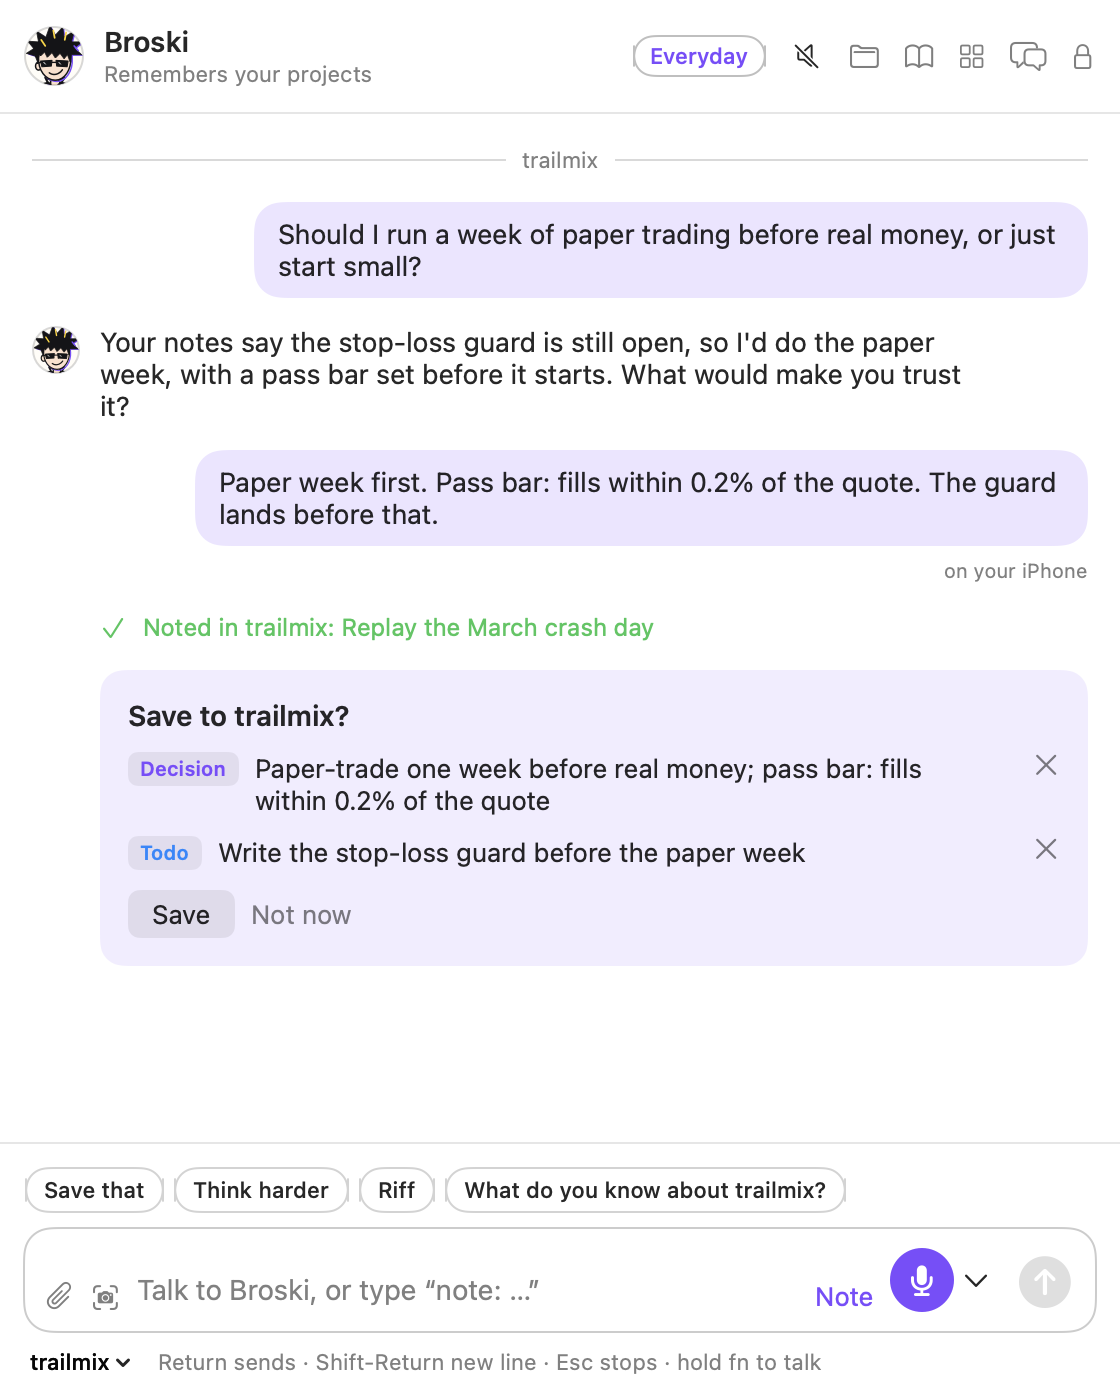
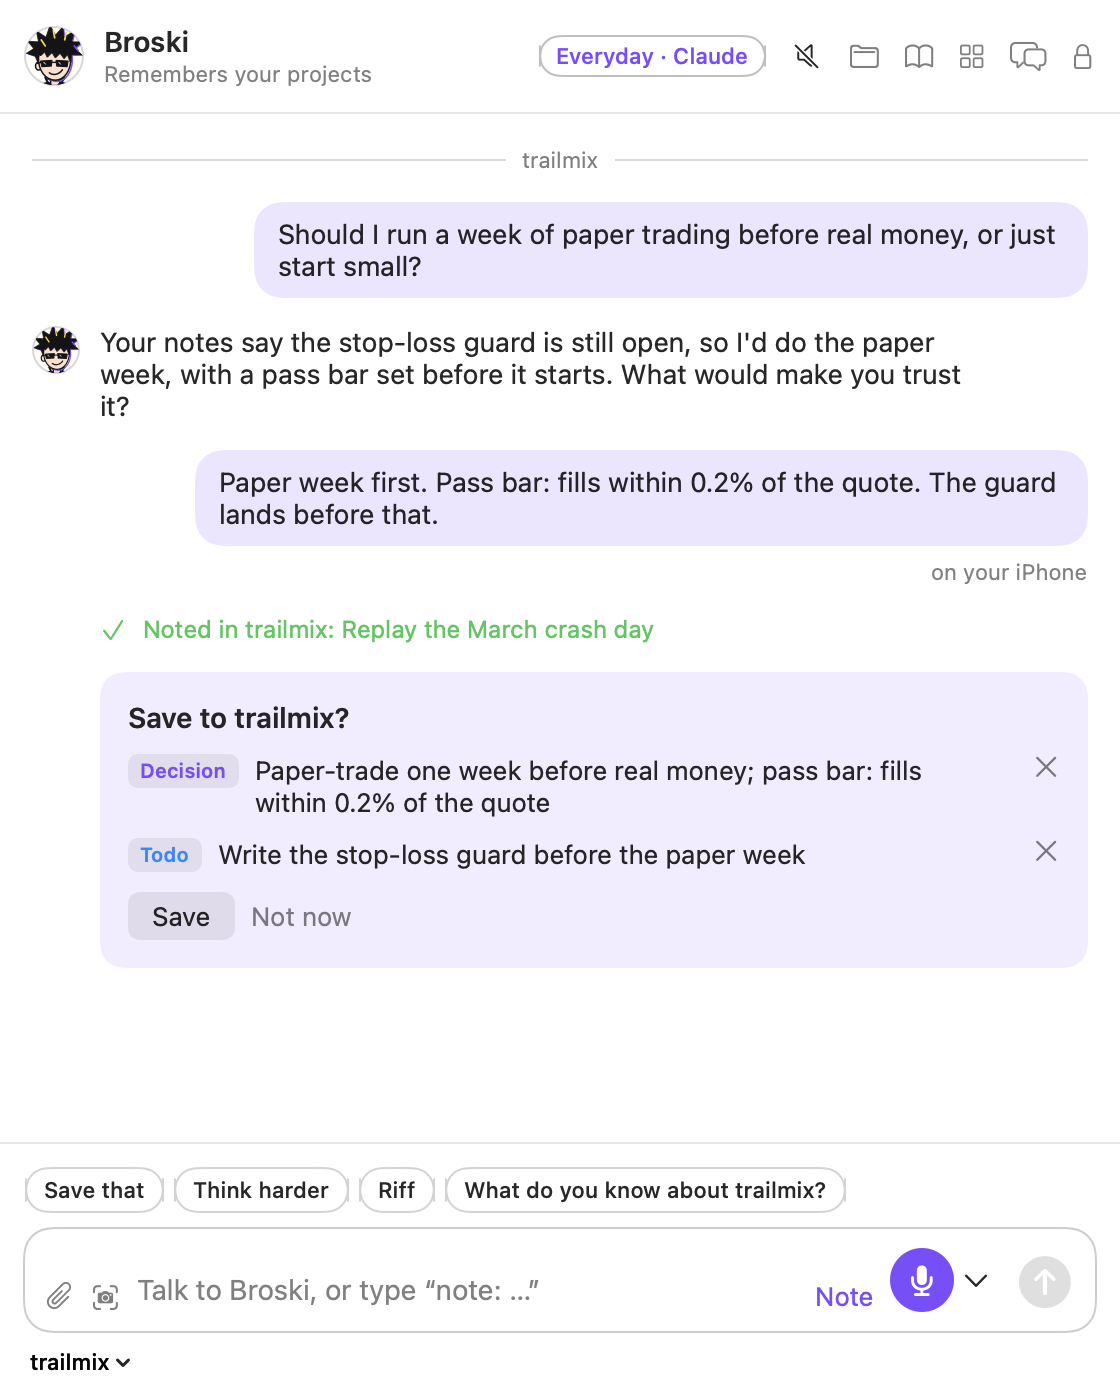
Name the provider everywhere, tidier first run, facts kept once (Mac 0.11.3, iPhone 0.7.2)
- The conversation's header shows the role and its provider ("Everyday · OpenAI"), or "No model" in orange, and
  opens Settings › Models; the note panel names the filing provider instead of "+ Claude".
- First run: the choose-a-model card follows Broski's hello on a standard card; the welcome no longer claims
  nothing leaves the Mac and no longer uses a sample project name; one button on the voice step.
- Header icons get accessibility labels; keyboard hints only at the start; one Wrap up in a riff; "Riff on this"
  in Ask and Help with this, with a reason when it's off; Memory's picker centred and "In your words" heading;
  the duplicate read-aloud toggle and the Claude-only "paste into Claude Code" line are gone.
- Memory.remembered keeps each fact once, case-insensitively, across devices; remember skips a known fact.
- ci.sh skips the one-build-at-a-time check on GitHub runners (it stopped the v0.11.2 release early).
- Website screenshots refreshed; the changelog introduces the first public release under 0.11.3.

diff --git a/Sources/Broski/Companion/HomeView.swift b/Sources/Broski/Companion/HomeView.swift
@@ -118,7 +118,12 @@ final class HomeModel: ObservableObject {
         if let thread { topic = thread }
     }
 
-    var modelLabel: String { riffing ? "Riff" : deep ? "Deep" : "Everyday" }
+    /// "Everyday · OpenAI": what's replying, and on which provider; "No model" until one is chosen.
+    var modelLabel: String {
+        if needsModel { return "No model" }
+        let name = (config().models ?? .defaults).providerName(for: riffing || deep ? .deep : .everyday)
+        return (riffing ? "Riff" : deep ? "Deep" : "Everyday") + (name.map { " · \($0)" } ?? "")
+    }
 
     /// Riff mode is on: from its start marker in the conversation until it's wrapped up, so it survives a restart.
     var riffing: Bool { RiffMode.active(turns: isPrivate ? privateTurns : turns) }
@@ -765,23 +770,31 @@ struct HomeView: View {
                     .font(.system(size: 11)).foregroundStyle(model.isPrivate ? Self.privateText : .secondary)
             }
             Spacer()
-            Text(model.modelLabel)
-                .font(.system(size: 11, weight: .medium))
-                .padding(.horizontal, 8).padding(.vertical, 3)
-                .overlay(Capsule().stroke(Color.secondary.opacity(0.5)))
-                .padding(1)
-                .foregroundStyle(Brand.purple)
-                .help(model.riffing ? "Riffing: brainstorming on the deep model, by the rules"
-                      : model.deep ? "Replies come from the deep model" : "Replies come from the everyday model")
+            Button {
+                ModelsSettings.openChooserNext = model.needsModel
+                model.openSettings(.models)
+            } label: {
+                Text(model.modelLabel)
+                    .font(.system(size: 11, weight: .medium))
+                    .padding(.horizontal, 8).padding(.vertical, 3)
+                    .overlay(Capsule().stroke(Color.secondary.opacity(0.5)))
+                    .padding(1)
+                    .foregroundStyle(model.needsModel ? Color.orange : Brand.purple)
+            }
+            .buttonStyle(.plain)
+            .help(model.needsModel ? "Choose a model to talk to"
+                  : model.riffing ? "Riffing: brainstorming on the deep model, by the rules. Click to change models."
+                  : model.deep ? "Replies come from the deep model. Click to change models." : "Replies come from the everyday model. Click to change models.")
             voiceMenu
             if model.project != nil {
                 Button { model.openProjectFolder() } label: { Image(systemName: "folder") }
                     .buttonStyle(.borderless).help("Open the project's folder: resources, setup drafts, tracker")
+                    .accessibilityLabel("Open the project's folder")
             }
             Button(action: openMemory) { Image(systemName: "book") }
-                .buttonStyle(.borderless).help("What Broski knows")
+                .buttonStyle(.borderless).help("What Broski knows").accessibilityLabel("What Broski knows")
             Button(action: openDashboard) { Image(systemName: "square.grid.2x2") }
-                .buttonStyle(.borderless).help("Open the dashboard")
+                .buttonStyle(.borderless).help("Open the dashboard").accessibilityLabel("Open the dashboard")
             Button { model.toggleRiff() } label: {
                 Image(systemName: model.riffing ? "bubble.left.and.bubble.right.fill" : "bubble.left.and.bubble.right")
                     .foregroundStyle(model.riffing ? Brand.purple : .secondary)
@@ -790,11 +803,13 @@ struct HomeView: View {
             .disabled(model.thinking)
             .help(model.riffing ? "Wrap up the riff: what came of it, as one card to save"
                   : "Riff: brainstorm by the rules (yours too). Or say “let's riff about …”")
+            .accessibilityLabel(model.riffing ? "Wrap up the riff" : "Start a riff")
             Button { model.togglePrivate() } label: {
                 Image(systemName: model.isPrivate ? "lock.fill" : "lock").foregroundStyle(model.isPrivate ? Self.privateText : .secondary)
             }
             .buttonStyle(.borderless)
             .help(model.isPrivate ? "Leave private mode" : "Go private: Broski starts blank and keeps nothing")
+            .accessibilityLabel(model.isPrivate ? "Leave private mode" : "Go private")
         }
         .padding(12)
     }
@@ -925,7 +940,6 @@ struct HomeView: View {
             ScrollView {
                 // Not lazy: rows of text measured as they scroll into view make the scroll bar and position jump.
                 VStack(alignment: .leading, spacing: 14) {
-                    if model.needsModel && !model.isPrivate { modelSetup }
                     if model.visibleTurns.isEmpty {
                         Text(model.isPrivate
                              ? "A blank slate. Nothing you say here is kept unless you choose to keep it."
@@ -936,6 +950,7 @@ struct HomeView: View {
                     ForEach(model.visibleTurns) { turn in
                         row(turn).id(turn.id)
                     }
+                    if model.needsModel && !model.isPrivate { modelSetup }
                     if model.thinking {
                         HStack(spacing: 6) {
                             ProgressView().controlSize(.small)
@@ -1025,7 +1040,7 @@ struct HomeView: View {
     /// No model yet: choose one (a cloud model with your key, or one on this Mac), or Apple's in one tap.
     private var modelSetup: some View {
         VStack(alignment: .leading, spacing: 10) {
-            Text("CHOOSE A MODEL TO TALK TO").font(.system(size: 10, weight: .semibold)).foregroundStyle(Brand.purple)
+            Text("Choose a model to talk to").font(.system(size: 13, weight: .semibold))
             Text("Broski needs a model to reply: a cloud one with your own key (Claude, OpenAI, Gemini and others), or one that runs on this Mac and keeps everything here.")
                 .font(.system(size: 13))
                 .fixedSize(horizontal: false, vertical: true)
@@ -1042,7 +1057,7 @@ struct HomeView: View {
             .controlSize(.small)
         }
         .padding(14)
-        .background(RoundedRectangle(cornerRadius: 12).stroke(Brand.purple.opacity(0.35)))
+        .background(RoundedRectangle(cornerRadius: 12, style: .continuous).fill(Color.primary.opacity(0.04)))
     }
 
     @ViewBuilder private func row(_ turn: Turn) -> some View {
@@ -1076,7 +1091,7 @@ struct HomeView: View {
                         .fixedSize(horizontal: false, vertical: true)
                 }
                 if turn.device != "mac" {
-                    Text("on your iPhone").font(.system(size: 10)).foregroundStyle(.secondary)
+                    Text("on your iPhone").font(.system(size: 11)).foregroundStyle(.secondary)
                 }
                 if let files = turn.files, !files.isEmpty {
                     HStack(spacing: 6) {
@@ -1198,7 +1213,6 @@ struct HomeView: View {
                         chip(move.name) { model.send(move.ask) }
                         .help(move.ask)
                     }
-                    chip("Wrap up") { model.endRiff() }
                 } else {
                 chip("Save that") { model.suggestSave(force: true) }
                 chip(model.deep ? "Back to everyday" : "Think harder") { model.deep.toggle() }
@@ -1304,9 +1318,11 @@ struct HomeView: View {
                     .menuStyle(.borderlessButton).fixedSize()
                     .help("Show one thread of the conversation")
                 }
-                Text("Return sends · Shift-Return new line · Esc stops · hold fn to talk")
-                    .font(.system(size: 11)).foregroundStyle(.secondary).lineLimit(1)
-                    .help("“note: …” saves without a reply · Up brings back your last message · paste or drop files and images")
+                if model.visibleTurns.count < 4 {
+                    Text("Return sends · Shift-Return new line · Esc stops · hold fn to talk")
+                        .font(.system(size: 11)).foregroundStyle(.secondary).lineLimit(1)
+                        .help("“note: …” saves without a reply · Up brings back your last message · paste or drop files and images")
+                }
             }
         }
         .padding(12)

diff --git a/Sources/Broski/OnboardingView.swift b/Sources/Broski/OnboardingView.swift
@@ -55,10 +55,8 @@ struct OnboardingView: View {
                 if step > 0 && step < lastStep {
                     Button("Back") { step -= 1 }
                 }
-                if step == 2 && !Permissions.voiceGranted {
-                    Button("Skip, I'll type") { next() }
-                }
-                Button(step == lastStep ? "Start using Broski" : "Continue", action: next)
+                Button(step == 2 && !Permissions.voiceGranted ? "Skip, I'll type" : step == lastStep ? "Start using Broski" : "Continue",
+                       action: next)
                     .keyboardShortcut(.defaultAction)
                     .controlSize(.large)
             }
@@ -88,18 +86,16 @@ struct OnboardingView: View {
             Image(nsImage: BroskiArt.avatar(diameter: 104, crowned: true))
             Text("Hey, I'm Broski.")
                 .font(.system(size: 32, weight: .bold))
-            Text("Ideas show up at random. Tell me the moment you have one, by voice or by typing, and I'll file it into the right project before it evaporates.")
+            Text("Talk to me about your projects, by voice or by typing. I remember what you've told me, think things through with you, and keep your decisions and todos when you say so.")
                 .font(.system(size: 15))
                 .foregroundStyle(.secondary)
                 .fixedSize(horizontal: false, vertical: true)
             VStack(alignment: .leading, spacing: 12) {
-                Feature(symbol: "keyboard", text: "Press \(app.shortcutLabel) anywhere, or click Broski in the menu bar")
-                Feature(symbol: "waveform", text: "Say “in the strado project, add a todo: …”, or just type it")
-                Feature(symbol: "camera.viewfinder", text: "Press \(app.screenshotLabel) to grab a screenshot and talk over it")
-                Feature(symbol: "record.circle", text: "“Start a QA session for strado”, test, then “wrap up” for a full report")
-                Feature(symbol: "text.quote", text: "Highlight text anywhere and press ⌥⇧C to clip it, with its source")
-                Feature(symbol: "square.stack", text: "See, tick off, and move every note in the dashboard")
-                Feature(symbol: "lock", text: "Notes are plain markdown on your Mac. Nothing is uploaded.")
+                Feature(symbol: "keyboard", text: "Press \(app.shortcutLabel) anywhere, or click Broski in the menu bar, and talk or type")
+                Feature(symbol: "checkmark.circle", text: "Decisions, todos and bugs are saved only when you tap Save")
+                Feature(symbol: "camera.viewfinder", text: "Press \(app.screenshotLabel) to grab a screenshot and talk over it; \(app.clipLabel) clips highlighted text")
+                Feature(symbol: "square.stack", text: "Every project, its notes and its living page in the dashboard")
+                Feature(symbol: "lock", text: "Your notes are plain files in your Broski folder. Replies come from the AI you choose.")
             }
             .padding(.top, 6)
         }

diff --git a/Sources/BroskiCore/Gateway.swift b/Sources/BroskiCore/Gateway.swift
@@ -198,11 +198,13 @@ public enum Memory {
     /// What's still remembered from conversations, oldest first.
     public static func remembered(root: URL) -> [String] {
         var facts: [String] = []
+        // Once each, whatever the case: two devices can remember the same thing, each in its own file.
+        func same(_ a: String, _ b: String) -> Bool { a.caseInsensitiveCompare(b) == .orderedSame }
         for event in events(root: root) {
             if event.op == "remember" {
-                facts.append(event.text)
+                if !facts.contains(where: { same($0, event.text) }) { facts.append(event.text) }
             } else if event.op == "forget" {
-                facts.removeAll { $0 == event.text }
+                facts.removeAll { same($0, event.text) }
             }
         }
         return facts
@@ -214,7 +216,7 @@ public enum Memory {
 
     public static func remember(_ fact: String, root: URL, device: String, at: Date = Date(), by: String? = nil, why: String? = nil) throws {
         let text = fact.trimmingCharacters(in: .whitespacesAndNewlines)
-        guard !text.isEmpty else { return }
+        guard !text.isEmpty, !remembered(root: root).contains(where: { $0.caseInsensitiveCompare(text) == .orderedSame }) else { return }
         try append(Event(at: at, device: device, op: "remember", text: text, by: by, why: why), root: root)
     }
 

diff --git a/Sources/Broski/PanelView.swift b/Sources/Broski/PanelView.swift
@@ -28,6 +28,8 @@ final class PanelModel: ObservableObject {
     @Published var proposal: Interpretation?
     @Published var thinkingProposal = false
     @Published var aiEnabled = false
+    /// The provider that files notes, named in the panel.
+    @Published var aiName: String?
     @Published var whisperState: Transcription.State = .missing
     /// Which local engine writes the text ("Bark" or "Whisper").
     @Published var voiceEngine = "Whisper"
@@ -500,7 +502,7 @@ struct PanelView: View {
             Text("Preparing the voice model…").font(.system(size: 11)).foregroundStyle(.secondary)
                 .help("Compiling it for this Mac, once. Apple's dictation writes the text meanwhile.")
         case .ready:
-            Label(model.aiEnabled ? "\(model.voiceEngine) + Claude" : model.voiceEngine, systemImage: model.aiEnabled ? "sparkles" : "waveform")
+            Label(model.aiEnabled ? "\(model.voiceEngine) + \(model.aiName ?? "your model")" : model.voiceEngine, systemImage: model.aiEnabled ? "sparkles" : "waveform")
                 .font(.system(size: 10, weight: .medium))
                 .foregroundStyle(.secondary)
                 .help(model.aiEnabled ? "Local \(model.voiceEngine) writes the text; your model files it" : "Choose a model in Settings › Models to tidy and file notes automatically")

diff --git a/Tests/BroskiCoreTests/GatewayAndMemoryTests.swift b/Tests/BroskiCoreTests/GatewayAndMemoryTests.swift
@@ -52,6 +52,20 @@ struct GatewayAndMemoryTests {
         #expect(fake.sent.isEmpty && UsageLog.entries(root: root).isEmpty)
     }
 
+    @Test("a fact already remembered is kept once, even when two devices remember it")
+    func rememberedOnce() throws {
+        let root = try scratch()
+        defer { try? FileManager.default.removeItem(at: root) }
+        try Memory.remember("Prefers short answers", root: root, device: "mac")
+        try Memory.remember("prefers short answers ", root: root, device: "mac")
+        // Each device writes only its own file, so the iPhone can't see the Mac's copy before it writes.
+        try Memory.remember("Prefers short answers", root: root, device: "iphone")
+        try Memory.remember("Works late on Fridays", root: root, device: "iphone")
+        #expect(Memory.remembered(root: root) == ["Prefers short answers", "Works late on Fridays"])
+        #expect(try Memory.forget("short answers", root: root, device: "mac"))
+        #expect(Memory.remembered(root: root) == ["Works late on Fridays"])
+    }
+
     @Test("a PDF goes as text to a model that can't read PDFs")
     func pdfAsText() async throws {
         let root = try scratch()

diff --git a/Sources/Broski/Companion/AskView.swift b/Sources/Broski/Companion/AskView.swift
@@ -158,12 +158,13 @@ struct AskView: View {
                         Spacer()
                         if let saved = model.saved { Text(saved).font(.system(size: 11)).foregroundStyle(.green) }
                         Button("Save as note") { model.saveAsNote() }
-                        Button("Keep thinking") {
+                        Button("Riff on this") {
                             model.onRiff(model.answer?.sources.first?.project, "Q: \(model.question)\n\nBroski: \(answer.markdown)")
                         }
                         // An answer without AI is a listing, kept on the Mac (a local-only project, no key).
                         .disabled(!model.library.brain.hasModel || !answer.usedAI)
-                        .help("Continue as a riff")
+                        .help(model.library.brain.hasModel ? (answer.usedAI ? "Keep thinking about this in a riff" : "This answer stayed on this Mac, so it can't go to a riff")
+                              : "Choose a model in Settings › Models to riff")
                     }
                     .buttonStyle(.borderless)
                     .font(.system(size: 12, weight: .medium))

diff --git a/Sources/Broski/Companion/MemoryView.swift b/Sources/Broski/Companion/MemoryView.swift
@@ -115,7 +115,8 @@ struct MemoryView: View {
             }
             .pickerStyle(.segmented)
             .labelsHidden()
-            .frame(width: 340)
+            .fixedSize()
+            .frame(maxWidth: .infinity)
             .padding(14)
             Divider()
             ScrollView {
@@ -140,7 +141,8 @@ struct MemoryView: View {
         Text("Broski reads this at the start of every conversation (never in private mode).")
             .font(.system(size: 12)).foregroundStyle(.secondary)
         HStack {
-            Text("ABOUT-YOU.MD").font(.system(size: 10, weight: .semibold)).foregroundStyle(.secondary)
+            Text("IN YOUR WORDS").font(.system(size: 10, weight: .semibold)).foregroundStyle(.secondary)
+                .help("memory/about-you.md in your Broski folder: yours to edit")
             Spacer()
             Button(model.aboutFile.isEmpty ? "Write it" : "Edit") { model.editAboutYou() }.controlSize(.small)
         }

diff --git a/Tests/BroskiCoreTests/ProvidersTests.swift b/Tests/BroskiCoreTests/ProvidersTests.swift
@@ -119,6 +119,14 @@ struct ProvidersTests {
         #expect(settings.providerID(for: .custom) != "custom")
     }
 
+    @Test("the screens name the provider a role runs on, never an assumed one")
+    func roleProviderName() {
+        #expect(ModelSettings.defaults.providerName(for: .fast) == "Claude")
+        let openAI = ProviderPreset.openAI.apply(to: .defaults, providerID: "openai", available: [])
+        #expect(openAI.providerName(for: .everyday) == "OpenAI")
+        #expect(ModelSettings(providers: [], roles: [:]).providerName(for: .deep) == nil)
+    }
+
     @Test("a server added by hand keeps its name, and takes local-only work when it runs on this Mac")
     func customServer() {
         var provider = ProviderPreset.custom.provider(id: "custom", baseURL: "http://127.0.0.1:8080/v1")

diff --git a/Sources/BroskiCore/Providers.swift b/Sources/BroskiCore/Providers.swift
@@ -155,6 +155,11 @@ public struct ProviderPreset: Equatable, Identifiable, Sendable {
 }
 
 extension ModelSettings {
+    /// The name of the provider `role` runs on ("OpenAI", "Ollama"), for labels; nil when no model is chosen.
+    public func providerName(for role: ModelRole) -> String? {
+        roles[role].flatMap { provider($0.provider) }?.displayName
+    }
+
     /// The id to connect `preset` under: the provider already made from it (connecting again updates it), else the
     /// preset's own id, else a new one. Every server added by hand gets its own.
     public func providerID(for preset: ProviderPreset) -> String {

diff --git a/Sources/Broski/Companion/Companion.swift b/Sources/Broski/Companion/Companion.swift
@@ -513,7 +513,7 @@ struct HelpCard: View {
                     if let saved = help.saved { Text(saved).foregroundStyle(.green) }
                     Spacer()
                     Button("Copy") { Exporter.copy(text) }
-                    Button("Ask a follow-up") {
+                    Button("Riff on this") {
                         companion.onRiff(help.project, "I asked for help with what's on my screen (\(help.context.summary)). You said:\n\n\(text)")
                         companion.close()
                     }

diff --git a/Sources/Broski/Dashboard/Overview.swift b/Sources/Broski/Dashboard/Overview.swift
@@ -255,7 +255,7 @@ struct ActionCard: View {
             result = "Raised to high"
         case .claudePrompt:
             Exporter.copy(action.detail.isEmpty ? action.title : action.detail)
-            result = "Copied. Paste it into Claude Code."
+            result = "Copied. Paste it into your coding agent (Claude Code, Codex, Cursor)."
             return
         case .decide:
             BroskiUI.app?.showRiff(project: project, opening: action.title + (action.detail.isEmpty ? "" : "\n\n" + action.detail))

diff --git a/Sources/Broski/SettingsView.swift b/Sources/Broski/SettingsView.swift
@@ -858,7 +858,6 @@ private struct CompanionSettings: View {
             Section("Shortcuts") {
                 LabeledContent("Ask Broski") { ShortcutRecorder(app: app, keyPath: \.askHotkey) }
                 LabeledContent("Help with this") { ShortcutRecorder(app: app, keyPath: \.helpHotkey) }
-                Toggle("Read replies aloud", isOn: app.binding(\.speakReplies))
             }
 
             Section {
